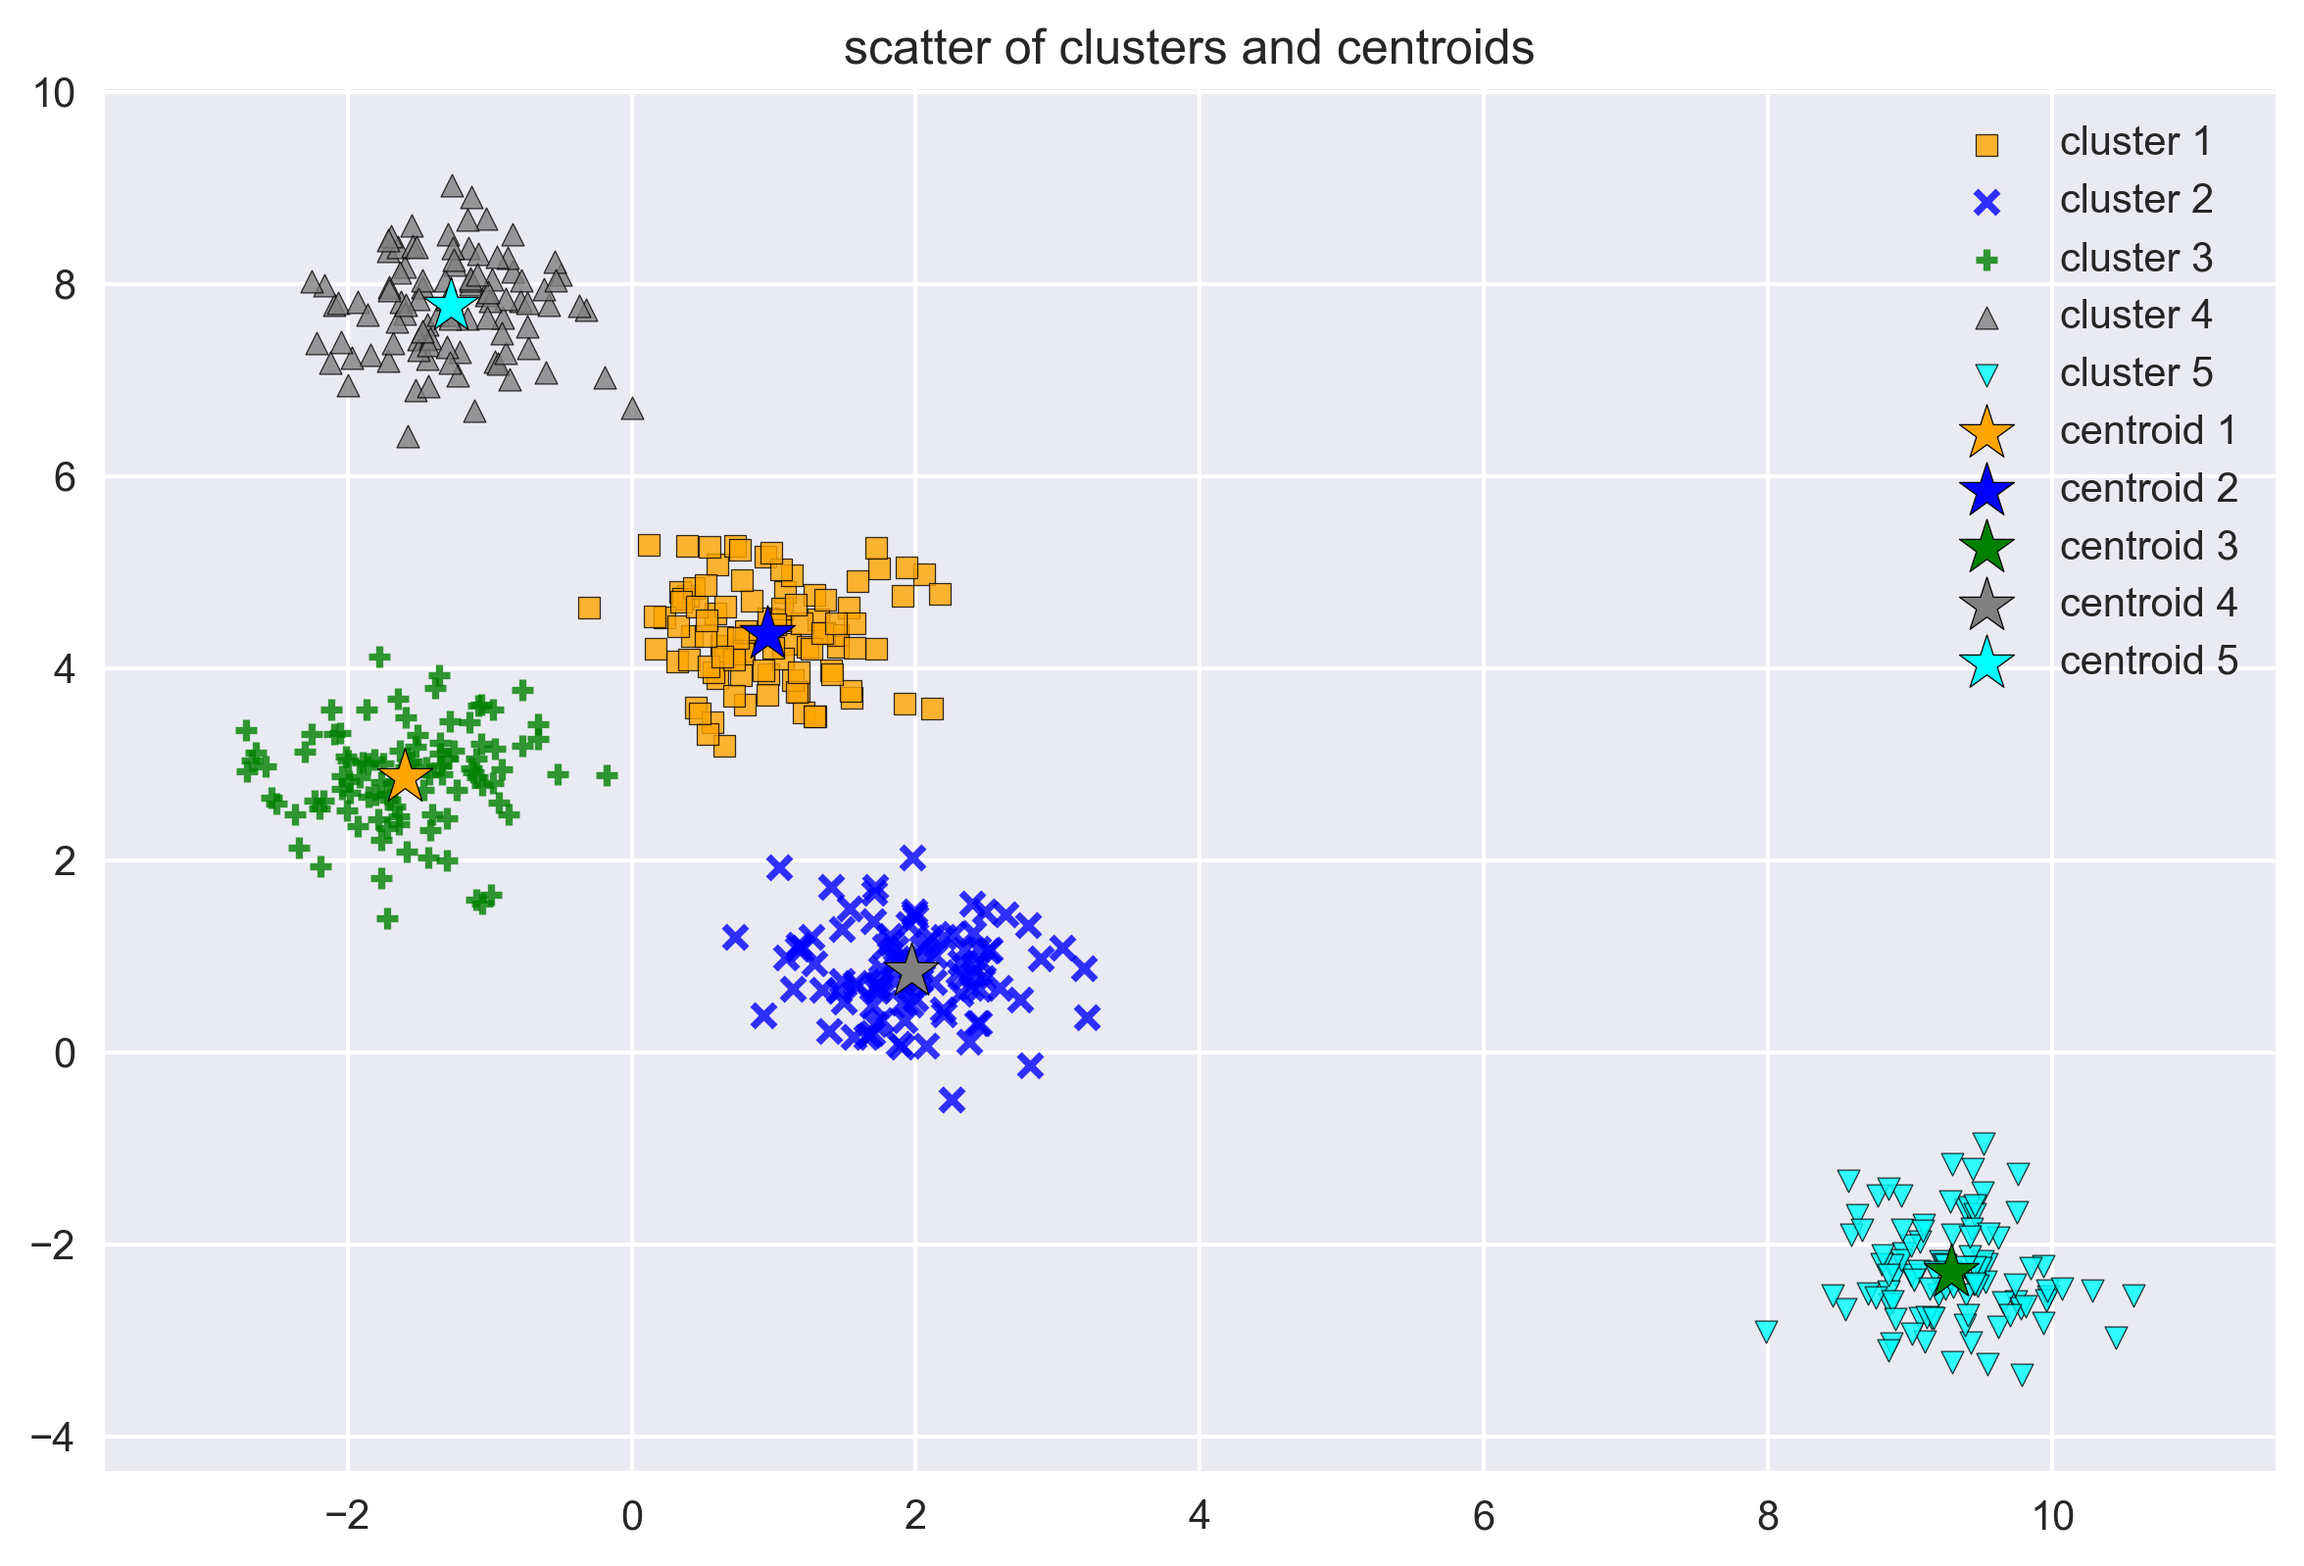
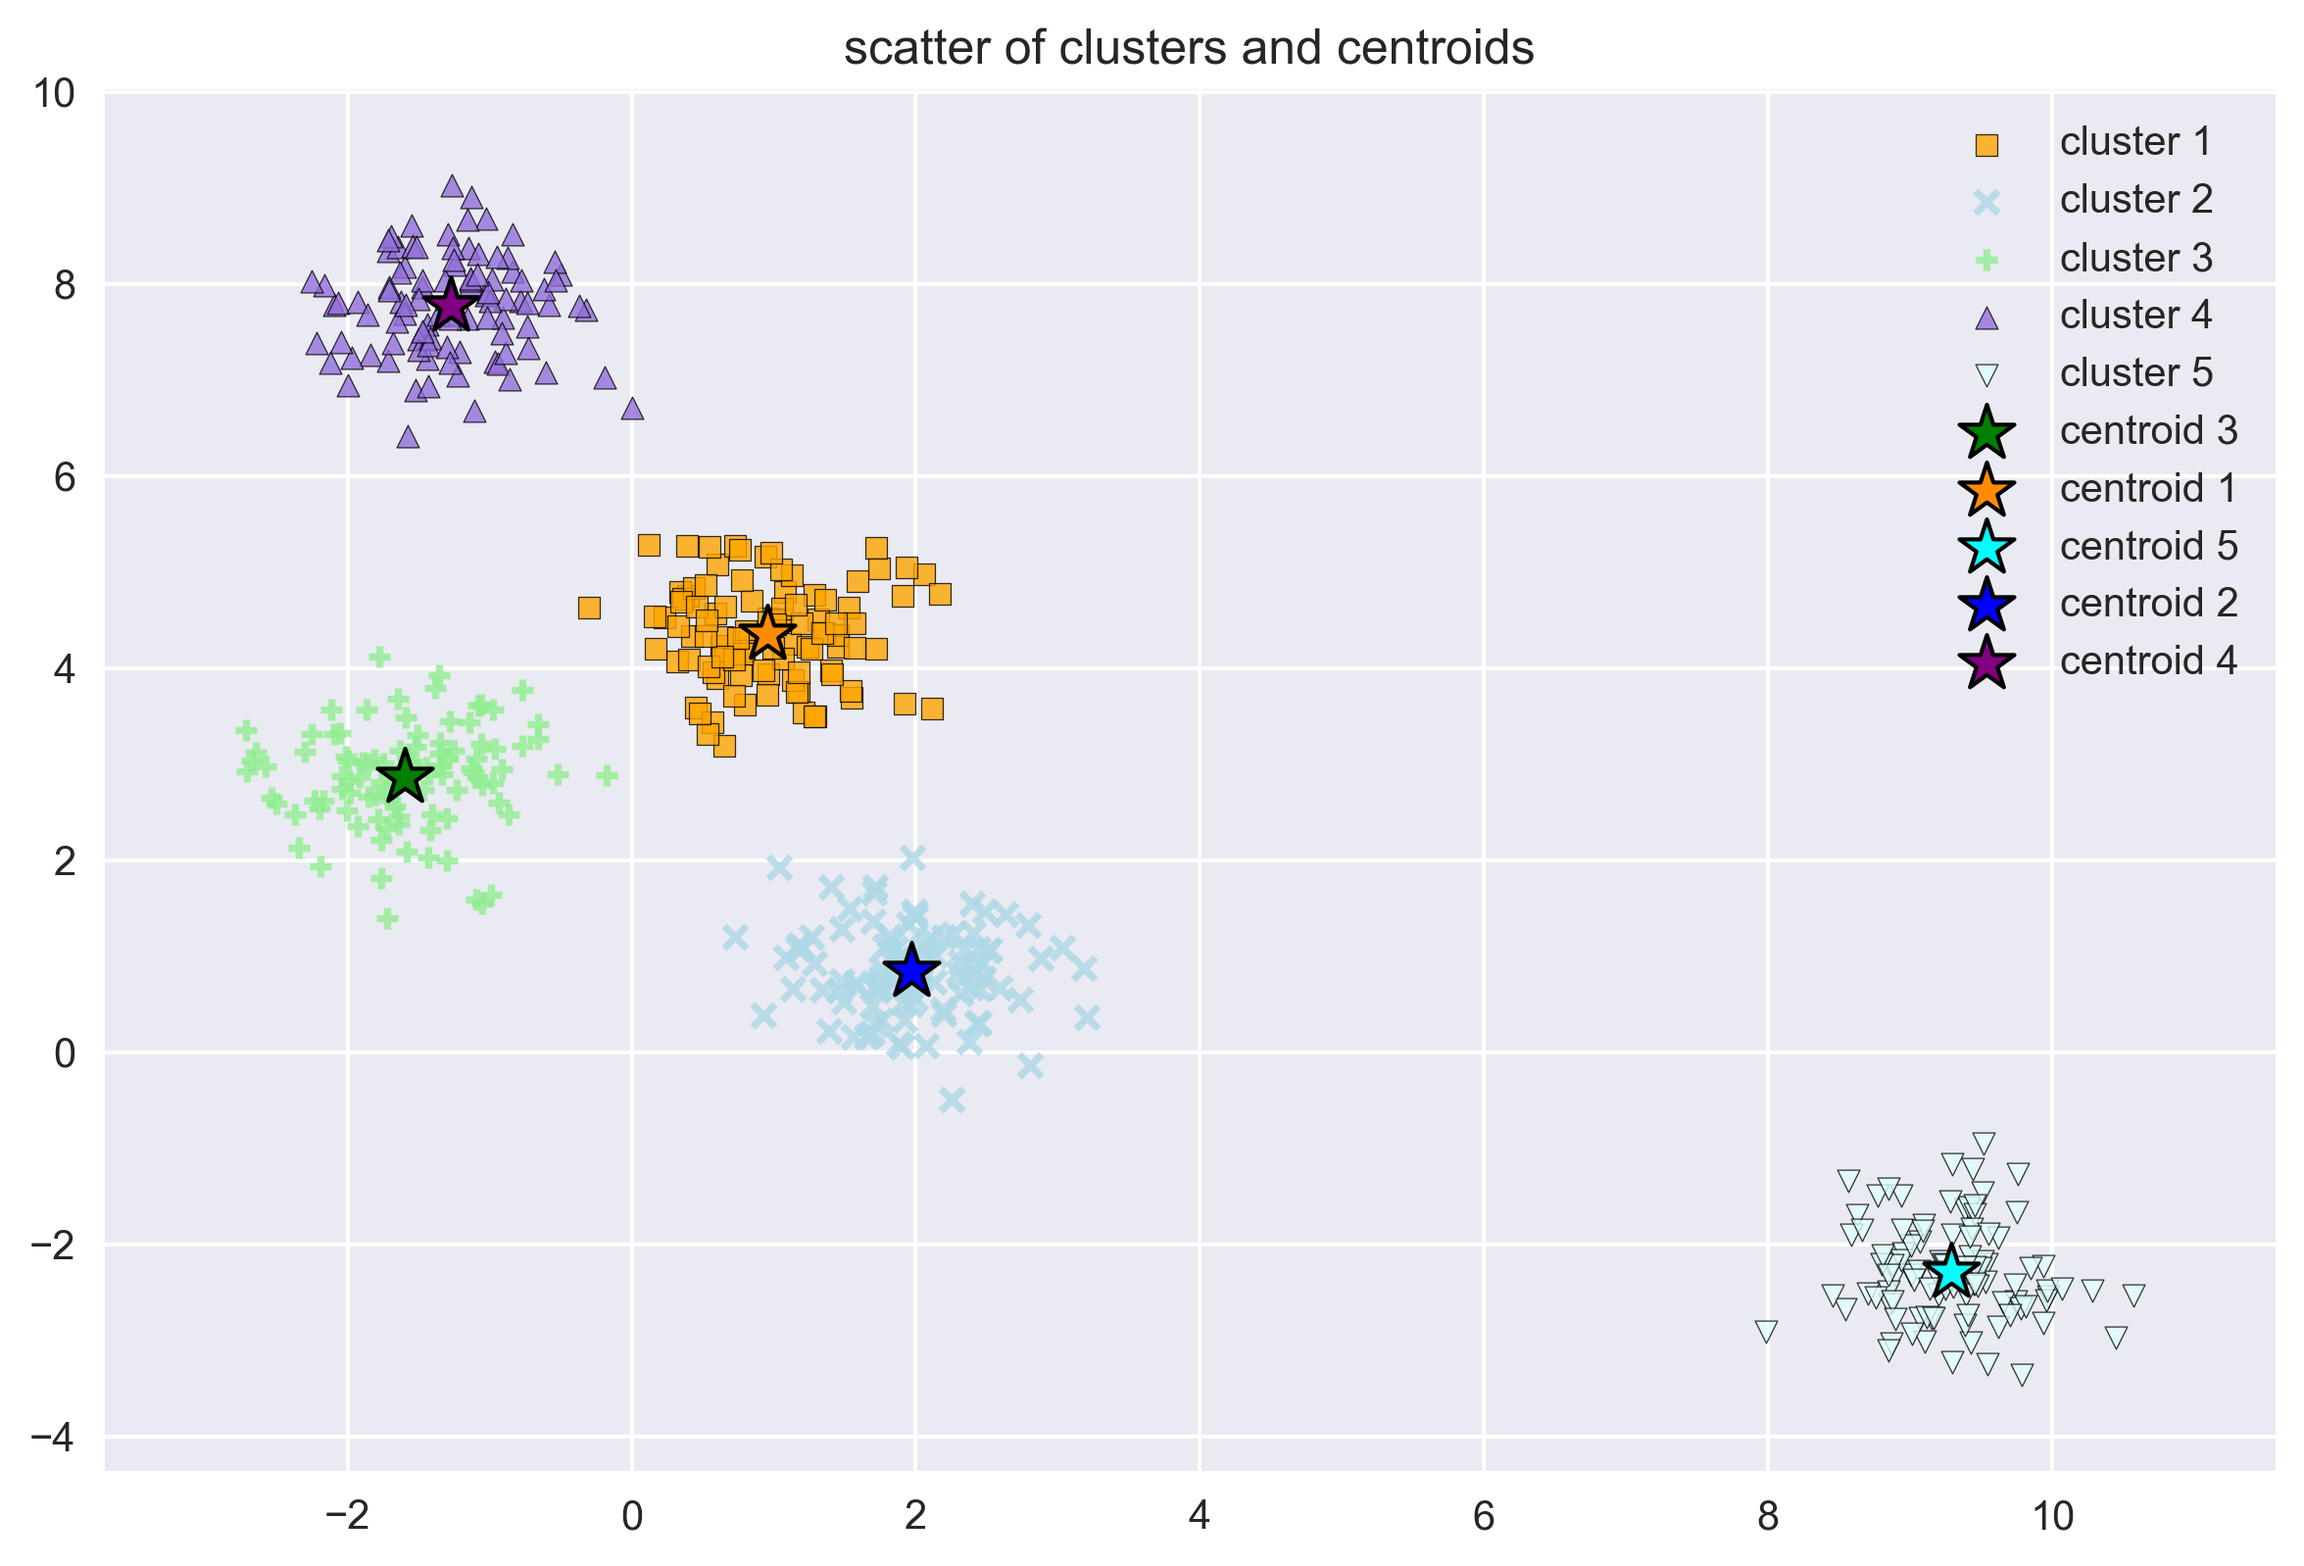
Add files via upload
・ MLPlot.py : 使用するカラーマップ変更。セントロイドを個別に描写する処理修正
・ main1.py : セントロイドを個別に描写する処理修正

diff --git a/ClusteringAnalysis_scikit-learn/MLPlot.py b/ClusteringAnalysis_scikit-learn/MLPlot.py
@@ -59,7 +59,7 @@ class MLPlot(object):
         
         # 識別クラス数に対応したMAPの作成（最大５クラス対応）
         tuple_makers = ( "s","x","+","^","v" )                          # タプル（定数リスト）
-        tuple_colors = ( "red","blue","green", "gray", "cyan" )         # 塗りつぶす色を表すタプル（定数リスト）
+        tuple_colors = ( "red","blue","green", "purple", "cyan" )       # 塗りつぶす色を表すタプル（定数リスト）
         numClass = len( numpy.unique(y_labels) )                        # numpy.unique() : 指定したarray変数の要素の重複をなくしたものを返す,更にlen() でユニークな値の数取得
         cmap = ListedColormap( tuple_colors[0:numClass] )               # plt.scatter() の引数で使用
 
@@ -544,7 +544,7 @@ class MLPlot(object):
             X_features, y_labels, 
             cluster_labels = [ "cluster 1", "cluster 2", "cluster 3", "cluster 4", "cluster 5" ], 
             cluster_markers = [ "s","x","+","^","v" ], 
-            cluster_cmap = ListedColormap( [ "orange","blue","green", "gray", "cyan" ] )
+            cluster_cmap = ListedColormap( [ "orange","blue","green", "purple", "cyan" ] )
         ):
         """
         指定したクラスターを散布図で描写する.
@@ -614,13 +614,14 @@ class MLPlot(object):
     def drawClustersAndCentroidsScatter( 
             X_features, y_labels, 
             X_cluster_centors,
+            cluster_centroid_map = [ 0, 1, 2, 3, 4 ],
             cluster_labels = [ "cluster 1", "cluster 2", "cluster 3", "cluster 4", "cluster 5" ], 
             cluster_markers = [ "s","x","+","^","v" ], 
-            cluster_cmap = ListedColormap( [ "orange","blue","green", "gray", "cyan" ] ),
+            cluster_cmap = ListedColormap( [ "orange","lightblue","lightgreen", "mediumpurple", "lightcyan" ] ),
             drawCentroidsIndividually = False,
             centroid_labels = [ "centroid 1", "centroid 2", "centroid 3", "centroid 4", "centroid 5" ],
             centroid_markers = [ "*", "*", "*", "*", "*" ], 
-            centroid_cmap = ListedColormap( [ "orange","blue","green", "gray", "cyan" ] )
+            centroid_cmap = ListedColormap( [ "darkorange","blue","green", "purple", "cyan" ] )
         ):
         """
         指定したクラスターと指定したセントロイドを散布図で描写する.
@@ -634,6 +635,9 @@ class MLPlot(object):
 
             X_cluster_centors : ndaary ( shape = [clusters] )
                 各クラスターのセントロイド
+
+            cluster_centroid_map : list <int>
+                クラスターとセントロイドのインデックスの対応関係のMAP
 
             cluster_labels : list <str>
                 各クラスターのラベル名（凡例に描写）
@@ -686,18 +690,19 @@ class MLPlot(object):
         # セントロイドの plot
         if ( drawCentroidsIndividually == True):
            # ? セントロイドを個別に plot
-           for (idx, cluster) in enumerate( numpy.unique(y_labels) ): # enumerate():idx と共に clもloop
-                print( "cluster :", cluster )
+           for (idx, map) in enumerate( cluster_centroid_map ): # enumerate():idx と共に clもloop
+                #print( "cluster :", cluster )
                 
                 plt.scatter(
-                    x = X_cluster_centors[ cluster, 0 ],    # １つ目の特徴量 
-                    y = X_cluster_centors[ cluster, 1 ],    # ２つ目の特徴量
+                    x = X_cluster_centors[ idx, 0 ],    # １つ目の特徴量 
+                    y = X_cluster_centors[ idx, 1 ],    # ２つ目の特徴量
                     s = 200,                            # plot サイズ (デフォルト値: 20)
+                    linewidths = 1.0,                   # 
                     alpha = 1.0, 
-                    c = centroid_cmap(idx),
+                    c = centroid_cmap(map),
                     edgecolor = 'black',
-                    marker = centroid_markers[idx],
-                    label = centroid_labels[idx]
+                    marker = centroid_markers[map],
+                    label = centroid_labels[map]
                 )
 
         else:
@@ -706,6 +711,7 @@ class MLPlot(object):
                 x = X_cluster_centors[ :, 0 ],    # １つ目の特徴量 
                 y = X_cluster_centors[ :, 1 ],    # ２つ目の特徴量
                 s = 200,                            # plot サイズ (デフォルト値: 20)
+                linewidths = 1.0,                   # 
                 alpha = 1.0, 
                 c = "red",
                 edgecolor = 'black',

diff --git a/ClusteringAnalysis_scikit-learn/main1.py b/ClusteringAnalysis_scikit-learn/main1.py
@@ -19,8 +19,7 @@ from MLPlot import MLPlot
 def main():
     """
     クラスター分析.
-    k-mean 法
-
+    k-mean 法によるクラスタリング
     """
     print("Enter main()")
 
@@ -55,7 +54,9 @@ def main():
 
     # 指定した特徴行列 X_features のクラスターのセントロイドの計算＆各サンプルのインデックスを予想して返す.
     y_kmeans = kmeans.fit_predict( X_features )
-    print( "kmeans.cluster_centers_s :\n", kmeans.cluster_centers_ )
+
+    print( "kmeans.cluster_centers_ :\n", kmeans.cluster_centers_ )
+    print( "kmeans.labels_ :\n", kmeans.labels_ )
     print( "y_kmeans :\n", y_kmeans )
 
     #---------------------------------------------------------------
@@ -82,7 +83,8 @@ def main():
     MLPlot.drawClustersAndCentroidsScatter( 
         X_features, y_labels, 
         X_cluster_centors = kmeans.cluster_centers_,
-        drawCentroidsIndividually = True
+        drawCentroidsIndividually = True,
+        cluster_centroid_map = [ 2, 0, 4, 1, 3 ]
     )
 
     MLPlot.saveFigure( fileName = 'ClutterringAnalysis_scikit-learn_1-3.png' )

diff --git a/ClusteringAnalysis_scikit-learn/README.md b/ClusteringAnalysis_scikit-learn/README.md
@@ -1,7 +1,5 @@
 ## クラスター分析 [Clustering Analysis]
 
-コード実装中...
-
 ### 項目 [Contents]
 
 1. [使用するライブラリ](#使用するライブラリ)
@@ -25,6 +23,7 @@
 >> データセット : `sklearn.datasets`</br>
 >>> ガウス分布に従った各クラスター生成 : `sklearn.datasets.make_blobs()` : </br>
 http://scikit-learn.org/stable/modules/generated/sklearn.datasets.make_blobs.html#sklearn.datasets.make_blobs </br>
+
 >> クラスタリング : `sklearn.cluster`</br>
 >>> k-means 法 : `sklearn.cluster.KMeans` </br>
 http://scikit-learn.org/stable/modules/generated/sklearn.cluster.KMeans.html </br>
@@ -79,8 +78,7 @@ http://scikit-learn.org/stable/modules/generated/sklearn.cluster.KMeans.html </b
 ![clutterringanalysis_scikit-learn_1-2](https://user-images.githubusercontent.com/25688193/29914915-1f6a20b4-8e75-11e7-9c66-c92a3b66e2d3.png)
 
 >> セントロイドを個別に描写した散布図
->>> クラスターとそのセントロイドが対応していない（コード修正中...）
-![clutterringanalysis_scikit-learn_1-3](https://user-images.githubusercontent.com/25688193/29916412-a3b48aae-8e79-11e7-81f8-77c19f0a2237.png)
+![clutterringanalysis_scikit-learn_1-3](https://user-images.githubusercontent.com/25688193/29921350-38ef44bc-8e8c-11e7-98d8-b96e7782aae3.png)
 
 </br>
 
@@ -94,7 +92,7 @@ http://scikit-learn.org/stable/modules/generated/sklearn.cluster.KMeans.html </b
 
 <a name="#シルエット図を用いたクラスタリング性能の数値化"></a>
 
-## シルエット図を用いた、クラスタリング性能の数値化 : `main2.py`
+## シルエット図を用いた、クラスタリング性能の数値化 : `main3.py`
 
 > コード実装中...
 
